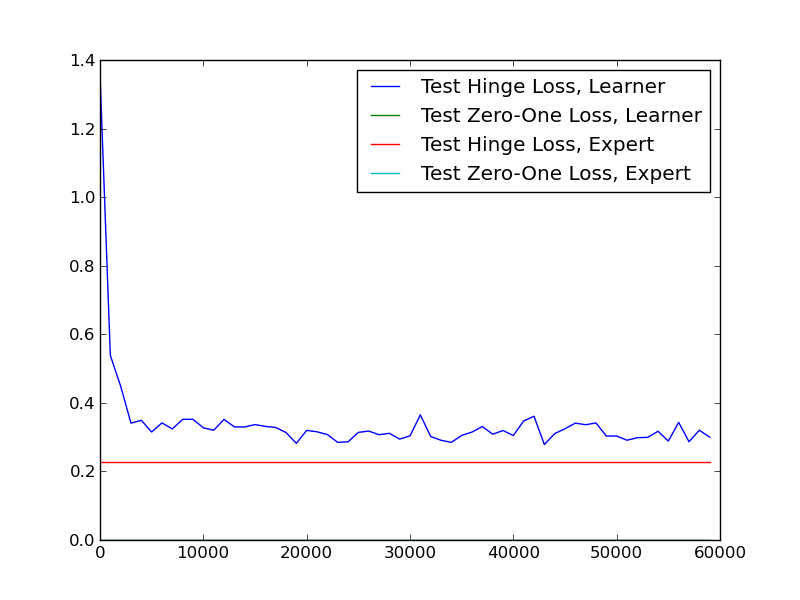
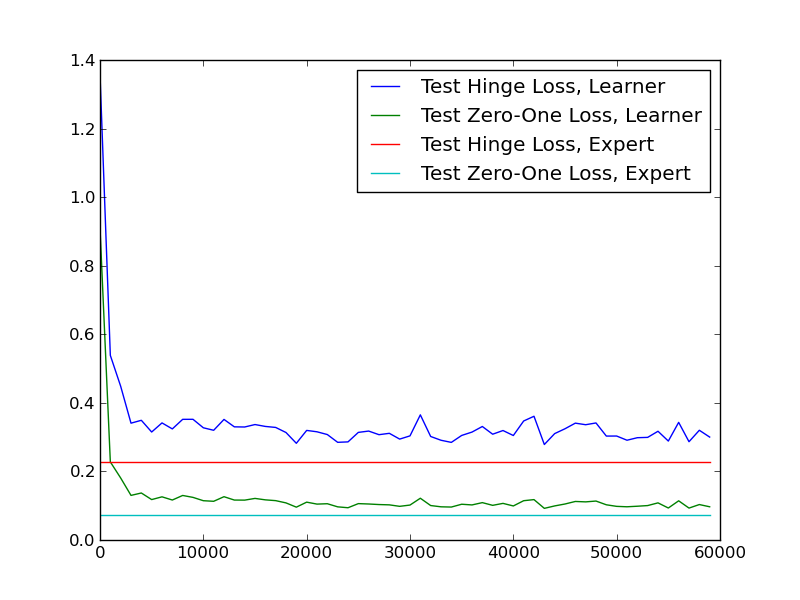
more figures

Changed region(s): [[0.125, 0.81, 0.9062, 0.87]]

diff --git a/OGD.py b/OGD.py
@@ -16,9 +16,9 @@ def test_err(W,testset,testlabels,Y):
         label = testlabels[t]-1
         WyX = np.dot(W[label],testset[t])
         hinge += max([(y!=label) + np.dot(W[y],testset[t])-WyX for y in range(Y)])
-        zero_one += max(range(Y),key = lambda y:np.dot(W[y],testset[t])) != label
+        zero_one += (1 if (max(range(Y),key = lambda y:np.dot(W[y],testset[t]))) != label else 0)
 
-    return (hinge/len(testset),zero_one/len(testset))
+    return (hinge/len(testset),float(zero_one)/len(testset))
         
     
 
@@ -108,7 +108,7 @@ def OGD_learn(trials,labels,Y,eta,best,testset,testlabels,T=None):
         zero_one_best_averages[t] = zero_one_best_total/float(t+1)
 
 
-        if(t%1000 == 0):
+        if(t%100000 == 0):
             print "Calculating test error"
             lte = test_err(W,testset,testlabels,Y)
             ete = test_err(best,testset,testlabels,Y)
@@ -122,8 +122,15 @@ def OGD_learn(trials,labels,Y,eta,best,testset,testlabels,T=None):
             timepoints.append(t)
             print "done!"
 
+
+
+    print "Expert training Hinge loss: ",ft_best_averages[t]
+    print "Expert training Zero-One Loss: ",zero_one_best_averages[t]
+
     tvals = np.arange(1,T+1)
     plt.clf()
+
+
 
     plt.plot(tvals,ft_averages,label="Hinge Loss, Learner")
     
@@ -135,7 +142,12 @@ def OGD_learn(trials,labels,Y,eta,best,testset,testlabels,T=None):
     plt.savefig(("lossplots_eta"+str(eta)).replace(".","p"))
     plt.show()
 
+
+    print "Expert test Hinge Loss: ",eth[0]
+    print "Expert test Zero-One Loss: ",etz[0]
+
     plt.clf()
+
 
     plt.plot(timepoints,lth,label ="Test Hinge Loss, Learner")
     plt.plot(timepoints,ltz,label = "Test Zero-One Loss, Learner")
